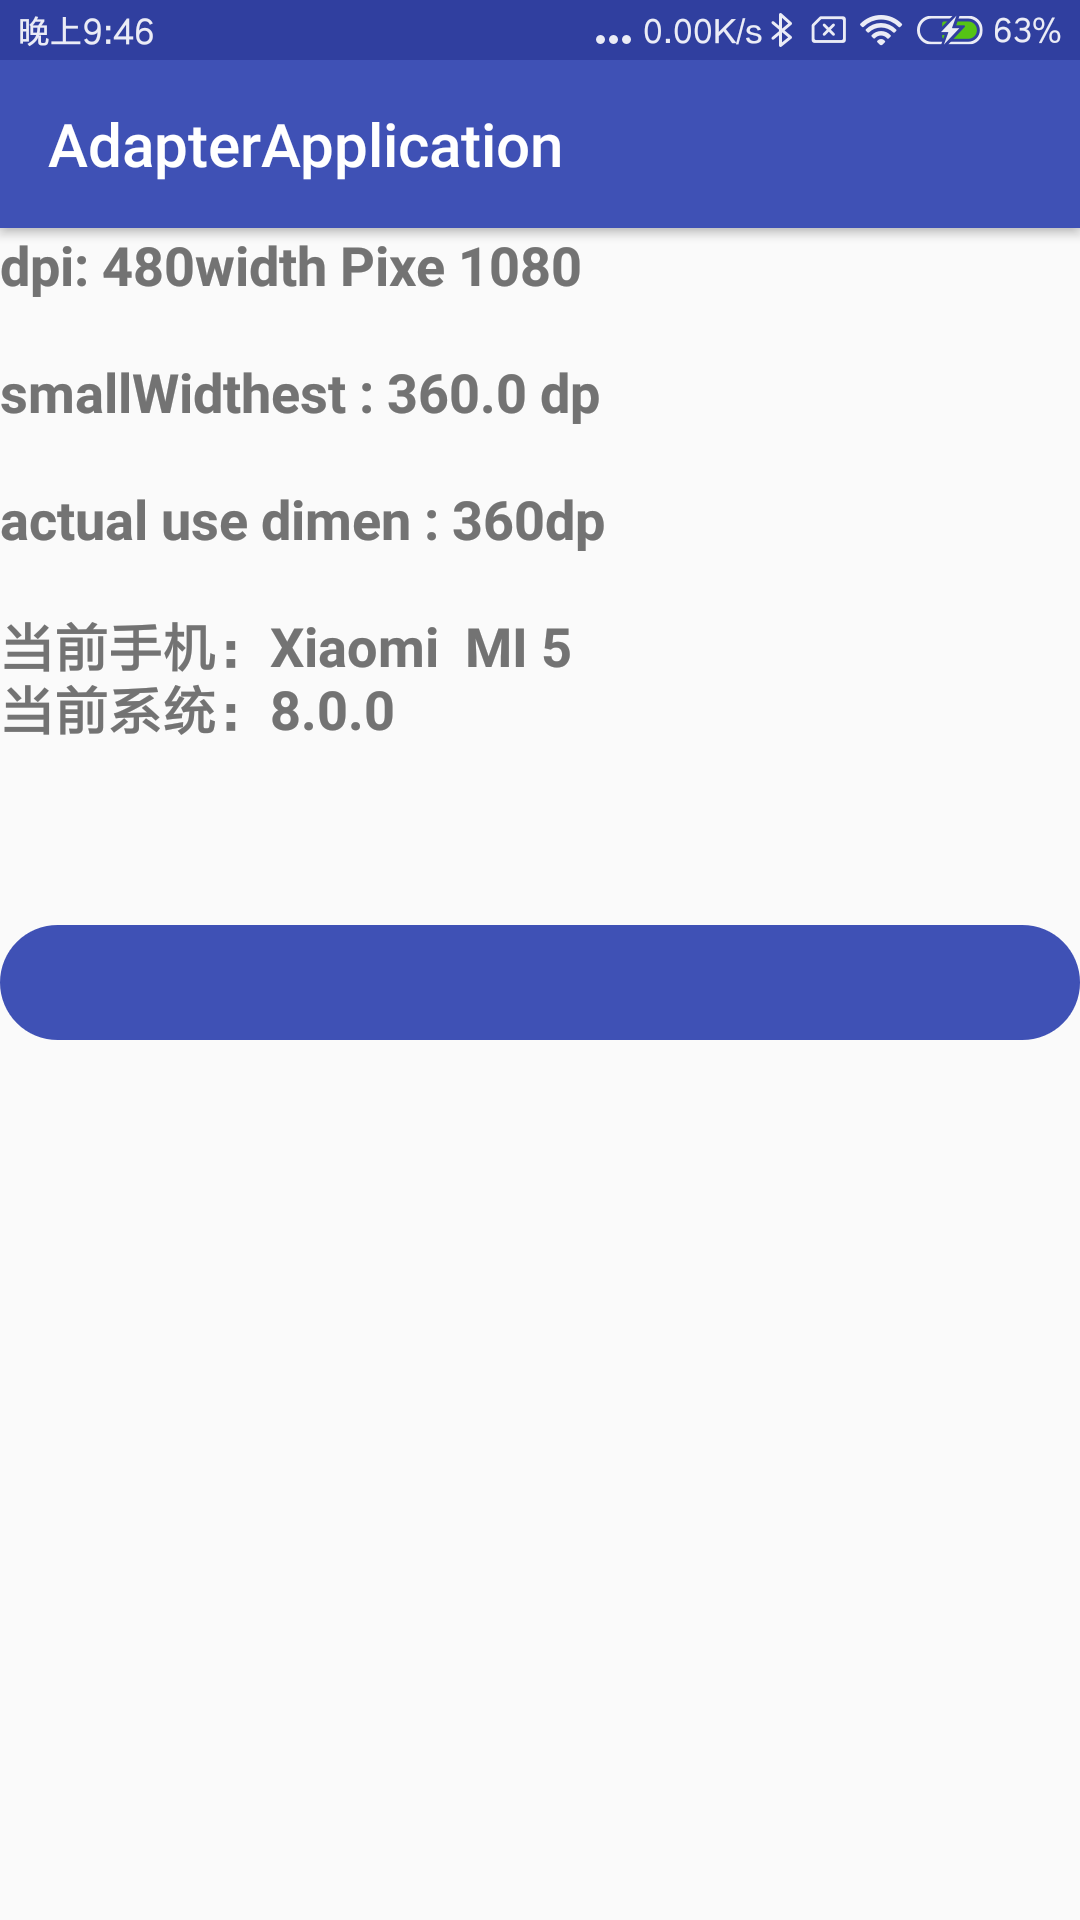
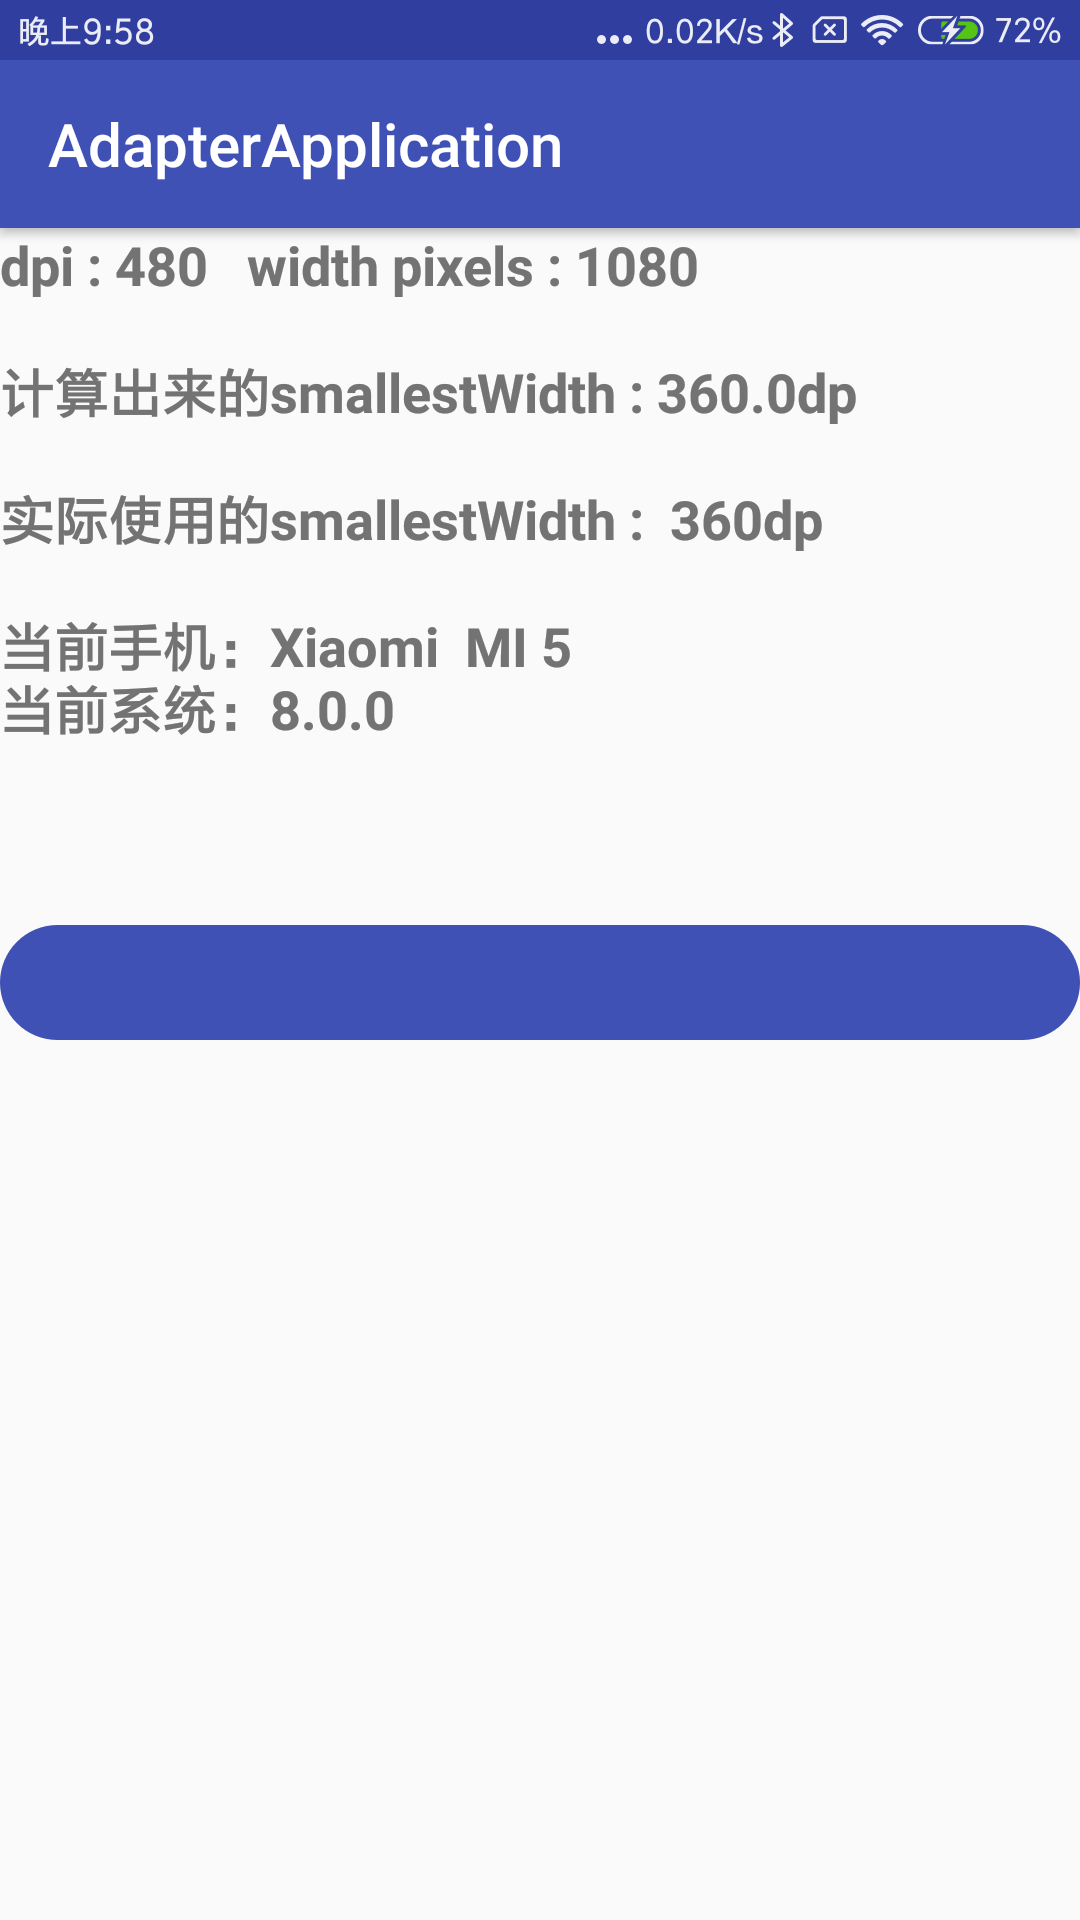
update demo code

diff --git a/app/src/main/java/com/example/laddingwu/adapterapplication/MainActivity.java b/app/src/main/java/com/example/laddingwu/adapterapplication/MainActivity.java
@@ -25,9 +25,9 @@ public class MainActivity extends AppCompatActivity {
             public void run() {
                 DisplayMetrics dm = new DisplayMetrics();
                 getWindowManager().getDefaultDisplay().getRealMetrics(dm);
-                tv1.setText("dpi: "+dm.densityDpi +"width Pixe "+dm.widthPixels);
-                tv2.setText("smallWidthest : "+dm.widthPixels/(dm.densityDpi/160.0) +" dp");
-                tv3.setText("actual use dimen : "+getResources().getString(R.string.base_dpi));
+                tv1.setText("dpi : "+dm.densityDpi +"   width pixels : "+dm.widthPixels);
+                tv2.setText("计算出来的smallestWidth : "+dm.widthPixels/(dm.densityDpi/160.0) +"dp");
+                tv3.setText("实际使用的smallestWidth :  "+getResources().getString(R.string.base_dpi));
                 tv4.setText("当前手机： "+SystemUtil.getDeviceBrand()+"  "+SystemUtil.getSystemModel()+ " \n"+"当前系统： "+SystemUtil.getSystemVersion()+ " ");
                 LinearLayout.LayoutParams p= (LinearLayout.LayoutParams) view.getLayoutParams();
                 p.width = getResources().getDimensionPixelSize(R.dimen.qb_px_375);
